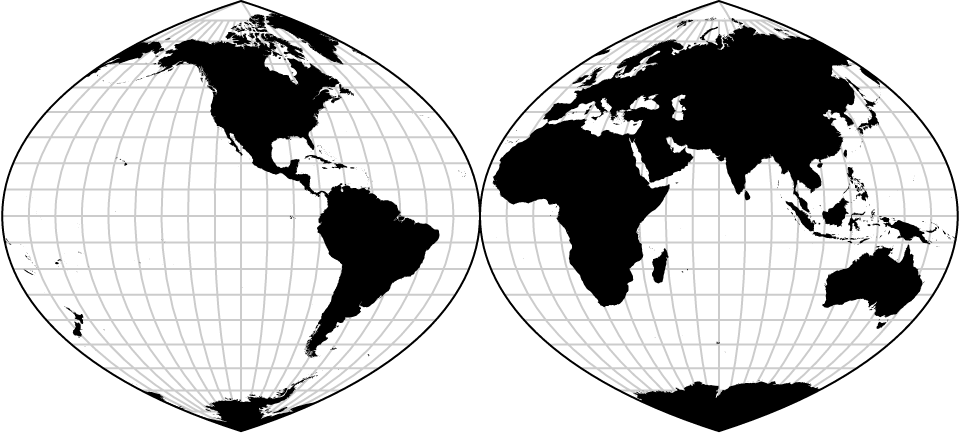
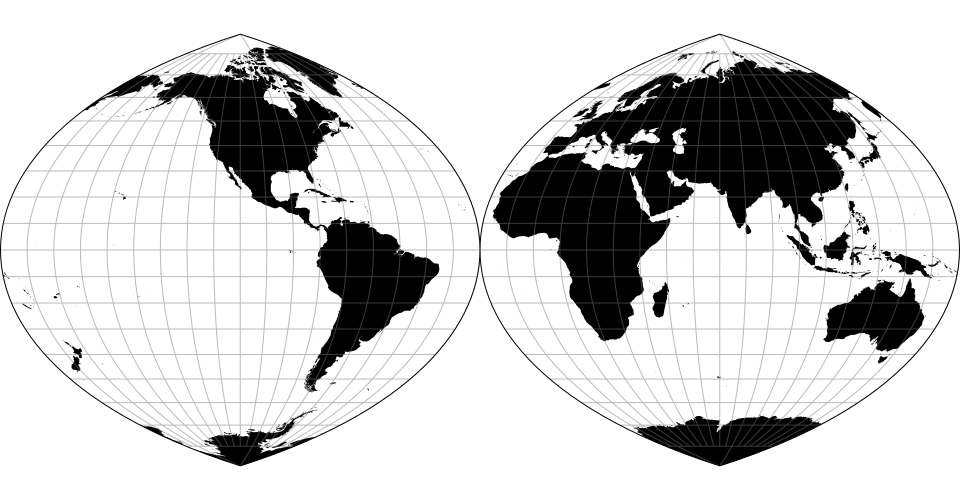
fix default scale, clip and test image for the interruptedQuarticAuthalic

Changed region(s): [[0.0, 0.0, 1.0, 1.0]]

diff --git a/src/interrupted/quarticAuthalic.js b/src/interrupted/quarticAuthalic.js
@@ -11,5 +11,6 @@ var lobes = [[ // northern hemisphere
 
 export default function() {
   return interrupt(hammerRaw(Infinity), lobes)
-      .rotate([20, 0]);
+      .rotate([20, 0])
+      .scale(152.63);
 }
